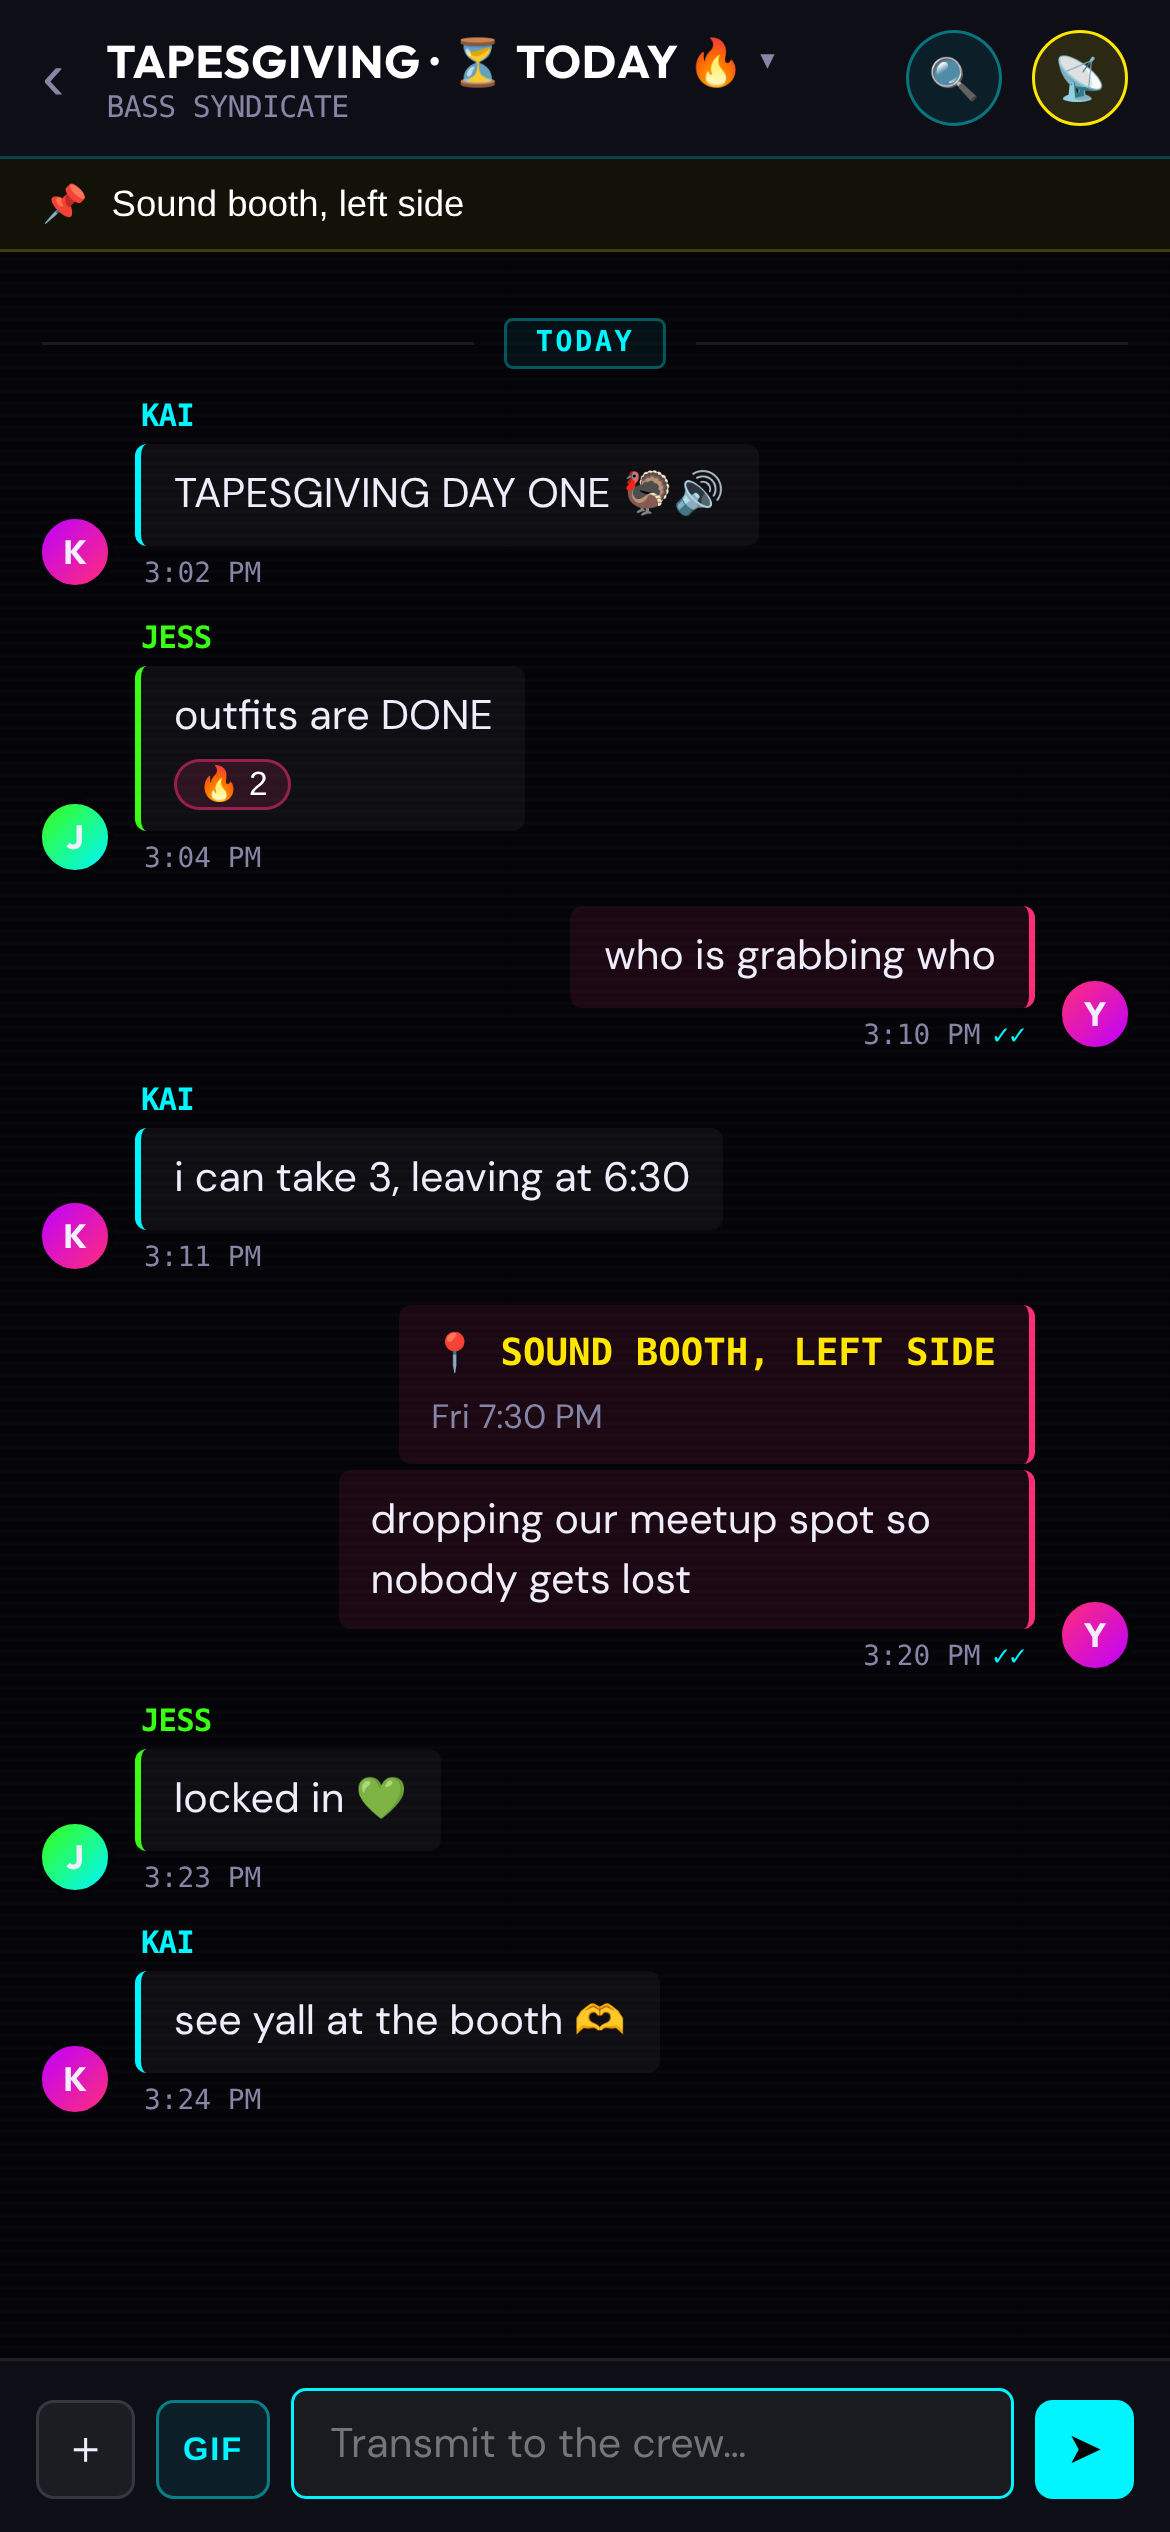
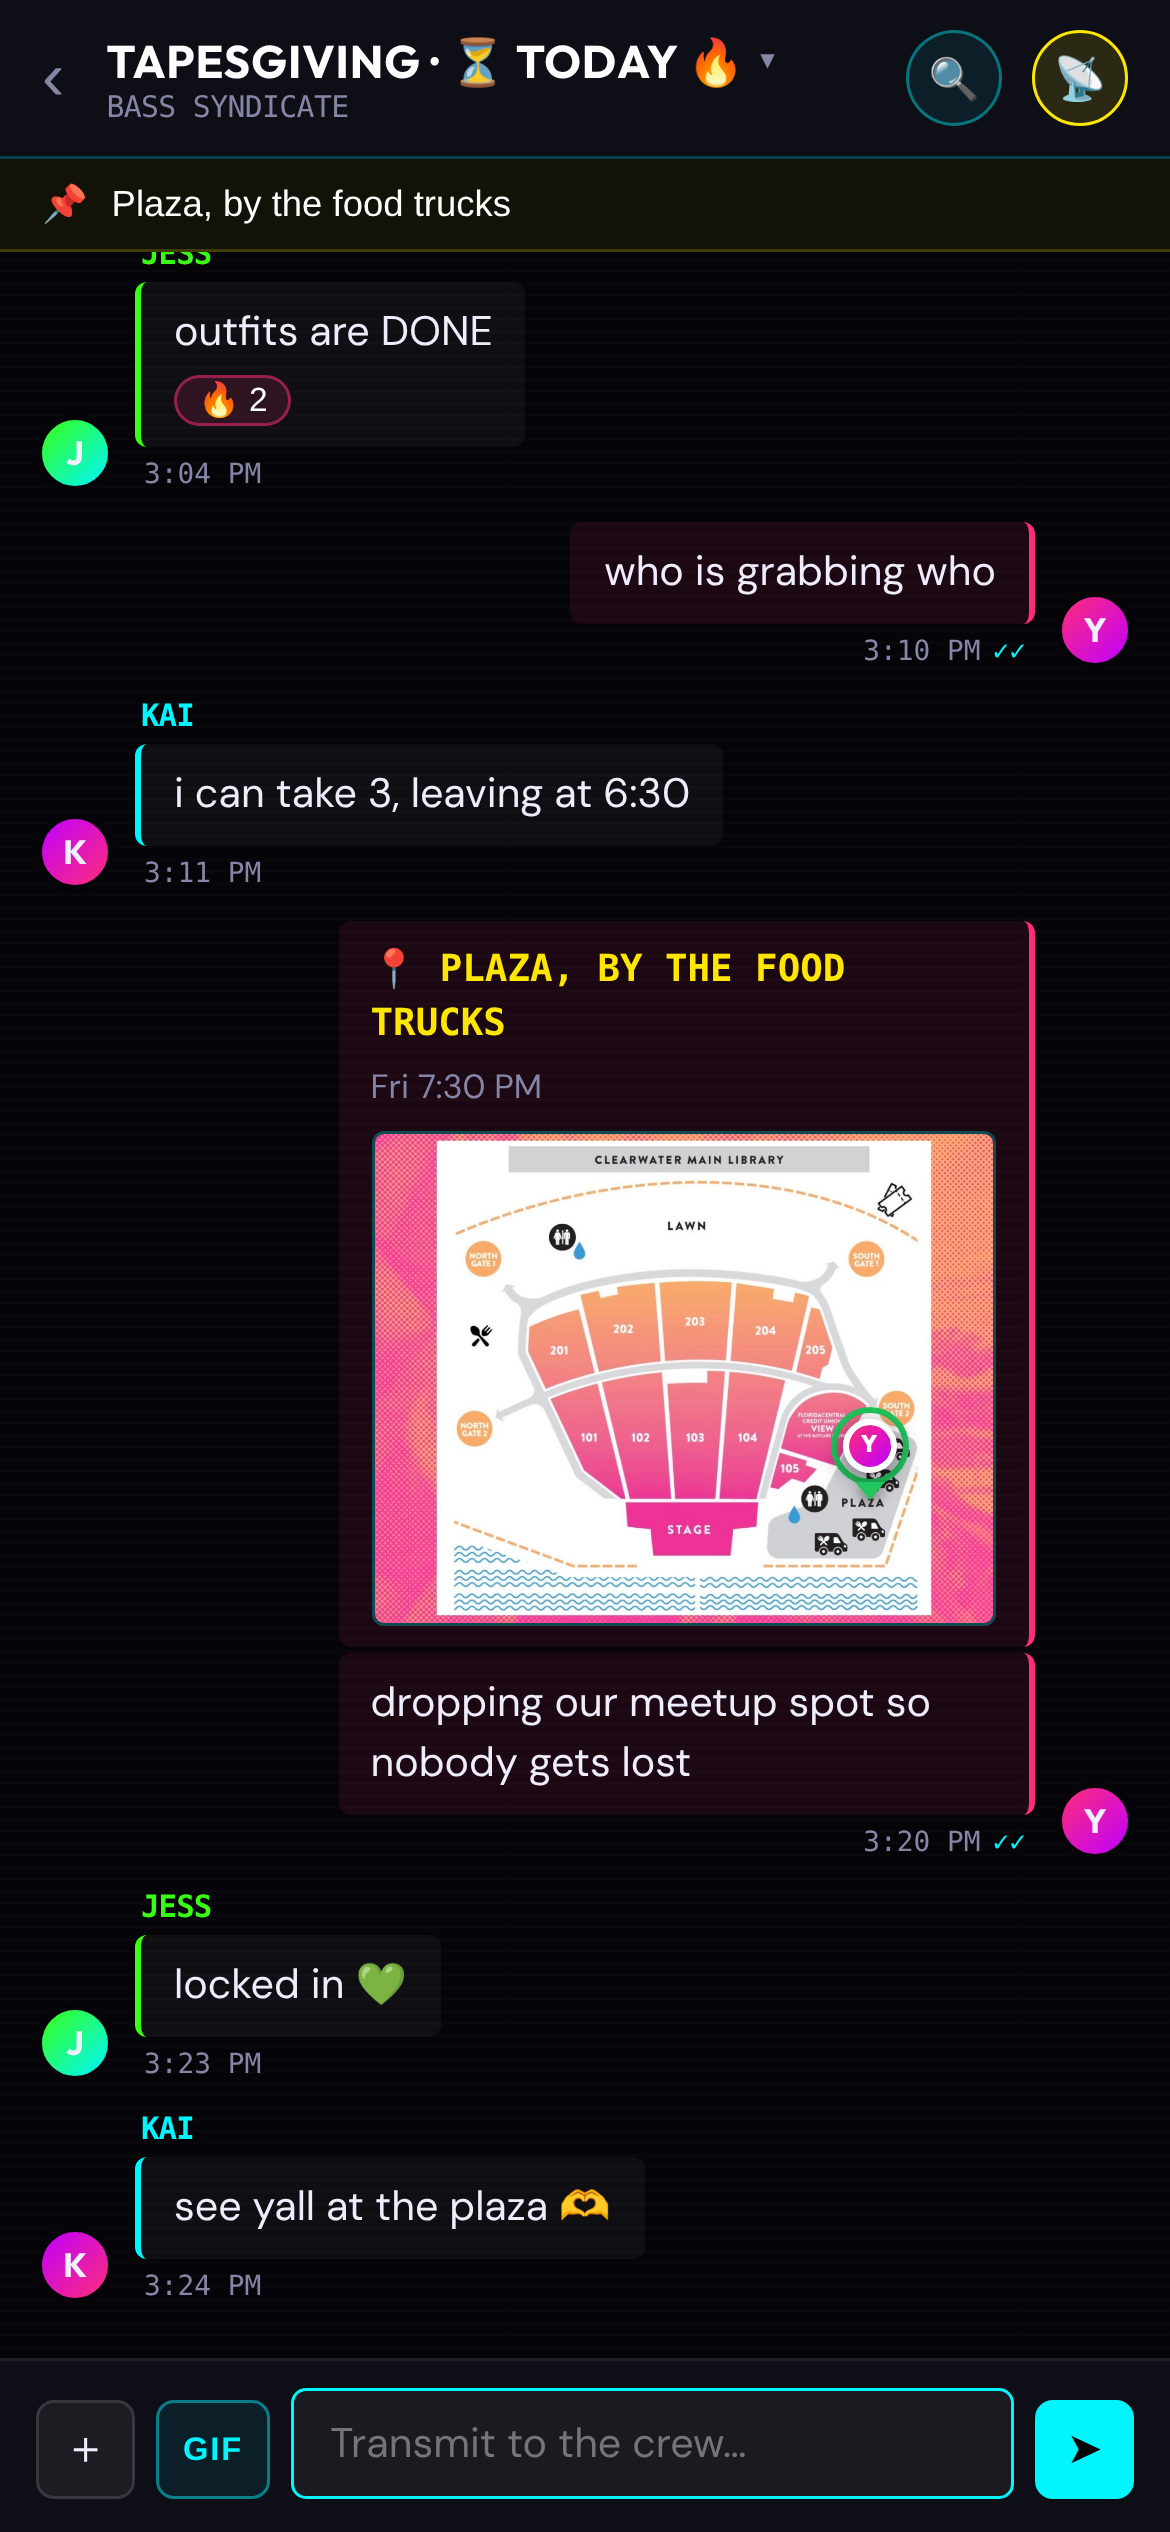
Tapesgiving Night 1: show the real venue map on the Huddle meetup pin
Frame 1 now captures the meetup pin with the BayCare Sound map (festivals.map_url)
and moves the demo spot to the Plaza by the food trucks, which the map shows.

Claude-Session: https://claude.ai/code/session_01SGcxiC6bRbcoWtM8sVqBKt

diff --git a/marketing/tapesgiving-2026/night1/_build/capture.spec.js b/marketing/tapesgiving-2026/night1/_build/capture.spec.js
@@ -12,6 +12,9 @@ test.use({ viewport: { width: 390, height: 844 }, deviceScaleFactor: 3, timezone
   launchOptions: { executablePath: '/opt/pw-browsers/chromium' } });
 
 const FID = '0a58fa03-0d13-43d4-8830-664b68e699dc';
+// Real venue map (festivals.map_url, uploaded Nov 27 2026); served from the local copy in map/.
+const MAP_URL = `https://tvpgopciioqbqmjjjigh.supabase.co/storage/v1/object/public/festival-maps/festivals/${FID}.jpg`;
+const MAP_FILE = require('path').join(__dirname, '../marketing/tapesgiving-2026/night1/_build/map/tapesgiving-map.jpg');
 const LINEUP = [ // [appearance id, artist id, name, night, headliner, note]
   [384, 350, 'Tape B', 'fri', true, 'Friday headliner'],
   [385, 104, 'EAZYBAKED', 'fri', false, 'b2b set'],
@@ -35,7 +38,7 @@ function tgData() {
     gradient: 'linear-gradient(135deg,#39FF14,#00F5FF)', base: 'Tampa, FL' });
   d.crew_members.push({ crew_id: 'c1', raver_id: 'r-jess', added_at: '2024-01-01T00:00:00Z', added_by: TEST_UID, deleted_at: null });
   d.festivals = [{ id: FID, slug: 'tapesgiving-2026', name: 'Tapesgiving', date: '2026-11-27', days: 2, location: 'Clearwater, Florida, United States',
-    color: '#FFE600', timezone: 'America/New_York', map_url: null, deleted_at: null }];
+    color: '#FFE600', timezone: 'America/New_York', map_url: MAP_URL, deleted_at: null }];
   d.raver_festivals = ['r-you', 'r-sam', 'r-kai', 'r-jess'].map(r => ({ raver_id: r, festival_id: FID }));
   d.raver_festival_interest = [];
   const seen = new Set();
@@ -66,9 +69,9 @@ function withHuddle(d) {
     msg('t3', TEST_UID, 'who is grabbing who', '15:10'),
     msg('t4', 'kai-uid', 'i can take 3, leaving at 6:30', '15:11'),
     msg('t5', TEST_UID, 'dropping our meetup spot so nobody gets lost', '15:20'),
-    msg('t6', TEST_UID, 'Sound booth, left side', '15:20', { kind: 'meetup', meetup_at: at('19:30'), pinned_at: at('15:21'), pinned_by: TEST_UID }),
+    msg('t6', TEST_UID, 'Plaza, by the food trucks', '15:20', { kind: 'meetup', meetup_at: at('19:30'), pin_x: 0.80, pin_y: 0.75, meetup_status: 'here', pinned_at: at('15:21'), pinned_by: TEST_UID }),
     msg('t7', 'jess-uid', 'locked in 💚', '15:23', { reactions: { '💚': ['kai-uid', TEST_UID] } }),
-    msg('t8', 'kai-uid', 'see yall at the booth 🫶', '15:24'),
+    msg('t8', 'kai-uid', 'see yall at the plaza 🫶', '15:24'),
   ];
   d.huddle_room_reads = [{ room_id: 'room-tg', user_id: TEST_UID, last_read_at: at('15:30') }, { room_id: 'room-main', user_id: TEST_UID, last_read_at: at('15:30') }];
   return d;
@@ -76,7 +79,7 @@ function withHuddle(d) {
 
 const CLEAN = '*, *::before, *::after { animation: none !important; transition: none !important; } .toast, #toast { display: none !important; }';
 async function boot(page, d) {
-  await page.route(/^https?:\/\/(?!127\.0\.0\.1|localhost)/, r => r.abort());
+  await page.route(/^https?:\/\/(?!127\.0\.0\.1|localhost)/, r => r.request().url() === MAP_URL ? r.fulfill({ path: MAP_FILE, contentType: 'image/jpeg' }) : r.abort());
   await page.clock.setFixedTime(new Date(at('15:31')));
   const errors = await bootAuthedApp(page, { data: d, sessionOver: { user_metadata: { guidance_dismissed: true, seen_tips: { beacon: true } } } });
   await page.addStyleTag({ content: CLEAN });
@@ -92,6 +95,8 @@ test('huddle with pinned meetup', async ({ page }) => {
   }
   await expect(page.locator('.hd-meetup')).toBeVisible();
   await expect(page.locator('.hd-pinned')).toBeVisible();
+  await expect(page.locator('.hd-meetup-map img')).toHaveJSProperty('complete', true);
+  await page.locator('.hd-meetup').evaluate(e => e.closest('.hd-row, .hd-grp, div').scrollIntoView({ block: 'start' }));
   await page.waitForTimeout(500);
   await page.screenshot({ path: OUT + 'huddle-meetup.png' });
 });
